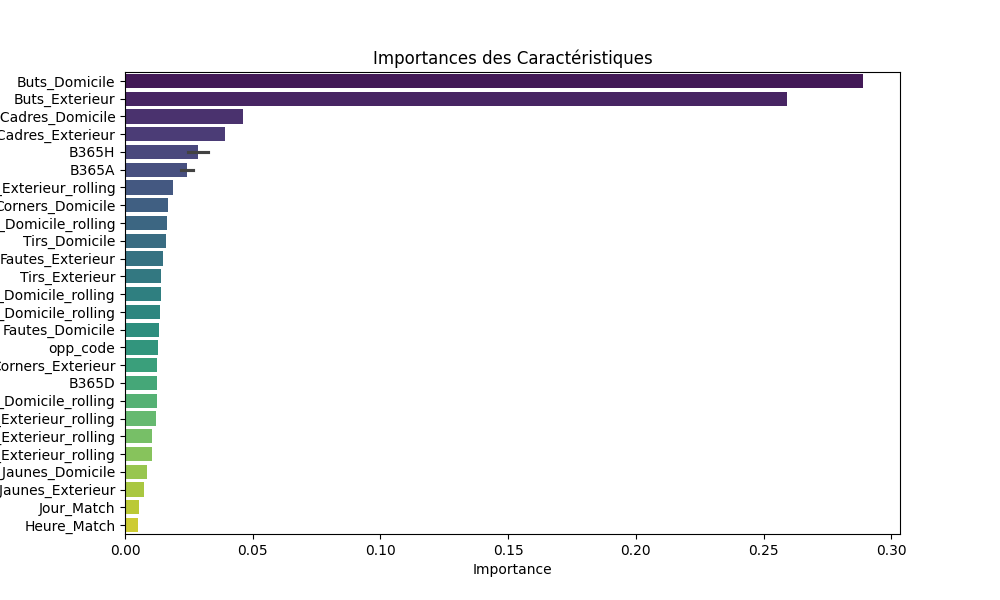
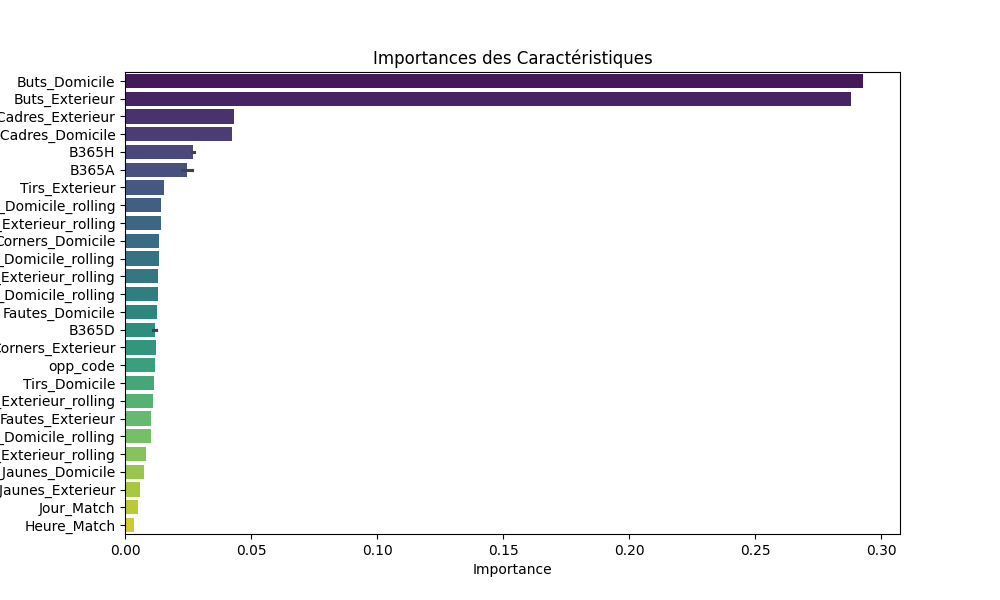
Finalisation Streamlit

diff --git a/main.py b/main.py
@@ -24,7 +24,6 @@ def prepare_future_match(home_team, away_team, date, time, rolling_stats, odds):
         'B365A': [odds[2]]   # Cote extérieure
     })
 
-    # Ajouter les moyennes mobiles pour les équipes
     home_stats = rolling_stats[rolling_stats['Equipe_Domicile'] == home_team].iloc[-1]
     away_stats = rolling_stats[rolling_stats['Equipe_Domicile'] == away_team].iloc[-1]
 
@@ -36,15 +35,11 @@ def prepare_future_match(home_team, away_team, date, time, rolling_stats, odds):
 
     return future_match
 
-# Fonction pour prédire le résultat du match
 def predict_match(home_team, away_team, date, time, odds):
     # Préparer les données du match futur
     future_match = prepare_future_match(home_team, away_team, date, time, matches_rolling, odds)
-
-    # Prédire le résultat
     prediction = rf.predict(future_match[predictors])
 
-    # Interpréter la prédiction
     result_map = {1: "Victoire Domicile", 0: "Victoire Extérieure", 2: "Match Nul"}
     predicted_result = result_map[prediction[0]]
 
@@ -76,7 +71,7 @@ matches_rolling = matches.groupby("Equipe_Domicile").apply(lambda x: rolling_ave
 matches_rolling = matches_rolling.droplevel('Equipe_Domicile')
 matches_rolling.index = range(matches_rolling.shape[0])
 
-# ---- 4⃣ Sélection des variables pour le modèle ----
+# Sélection des variables pour le modèle
 new_features = [
     "Buts_Domicile", "Buts_Exterieur",
     "Tirs_Domicile", "Tirs_Exterieur",
@@ -89,32 +84,32 @@ new_features = [
 
 predictors = ["opp_code", "Jour_Match", "Heure_Match", 'B365H', 'B365D', 'B365A'] + new_features + new_cols
 
-# ---- Division des données en train/test ----
+# Division des données en train/test
 train = matches_rolling[matches_rolling["Saison"] <= "2020"]
 test = matches_rolling[matches_rolling["Saison"] >= "2021"]
 
 rf = RandomForestClassifier(
-    # n_estimators=100,
-    # max_depth=14,
-    # min_samples_split=14,
-    # min_samples_leaf=2,
-    # random_state=1,
-    # class_weight='balanced'
-    n_estimators=50,
-    min_samples_split=10,
+    n_estimators=100,
+    max_depth=14,
+    min_samples_split=14,
+    min_samples_leaf=2,
     random_state=1,
+    class_weight='balanced'
+    # n_estimators=50,
+    # min_samples_split=10,
+    # random_state=1,
 )
 
 rf.fit(train[predictors], train["Target_Prediction"])
 preds = rf.predict(test[predictors])
 
-# ---- Évaluation du modèle ----
+# Évaluation du modèle
 accuracy = accuracy_score(test["Target_Prediction"], preds)
 conf_matrix = confusion_matrix(test["Target_Prediction"], preds)
 precision = precision_score(test["Target_Prediction"], preds, average='weighted')  # Moyenne pondérée pour chaque classe
 
 
-# ---- Affichage des résultats ----
+# Affichage des résultats
 plot_confusion_matrix(conf_matrix)
 # Calculer les importances des caractéristiques
 importances = rf.feature_importances_
@@ -122,7 +117,7 @@ feature_names = predictors
 feature_importance_df = pd.DataFrame({'Feature': feature_names, 'Importance': importances})
 
 
-# Appeler la fonction pour générer et enregistrer le graphique des importances des caractéristiques
+# Générer et enregistrer le graphique des importances des caractéristiques
 plot_feature_importances(feature_importance_df)
 
 print(f"Taille de l'echantillon de train : {train.shape[0]}")
@@ -135,7 +130,12 @@ print(f"📊 Matrice de confusion :\n {conf_matrix}")
 
 
 
-# Titre principal
+st.set_page_config(
+    page_title="Machine Learning - Ligue 1",
+    page_icon="⚽",
+)
+
+
 st.markdown("<h1 style='font-size: 36px; font-weight: bolder;'>Machine Learning - Matchs de Ligue 1</h1>", unsafe_allow_html=True)
 
 # Informations sur le modèle
